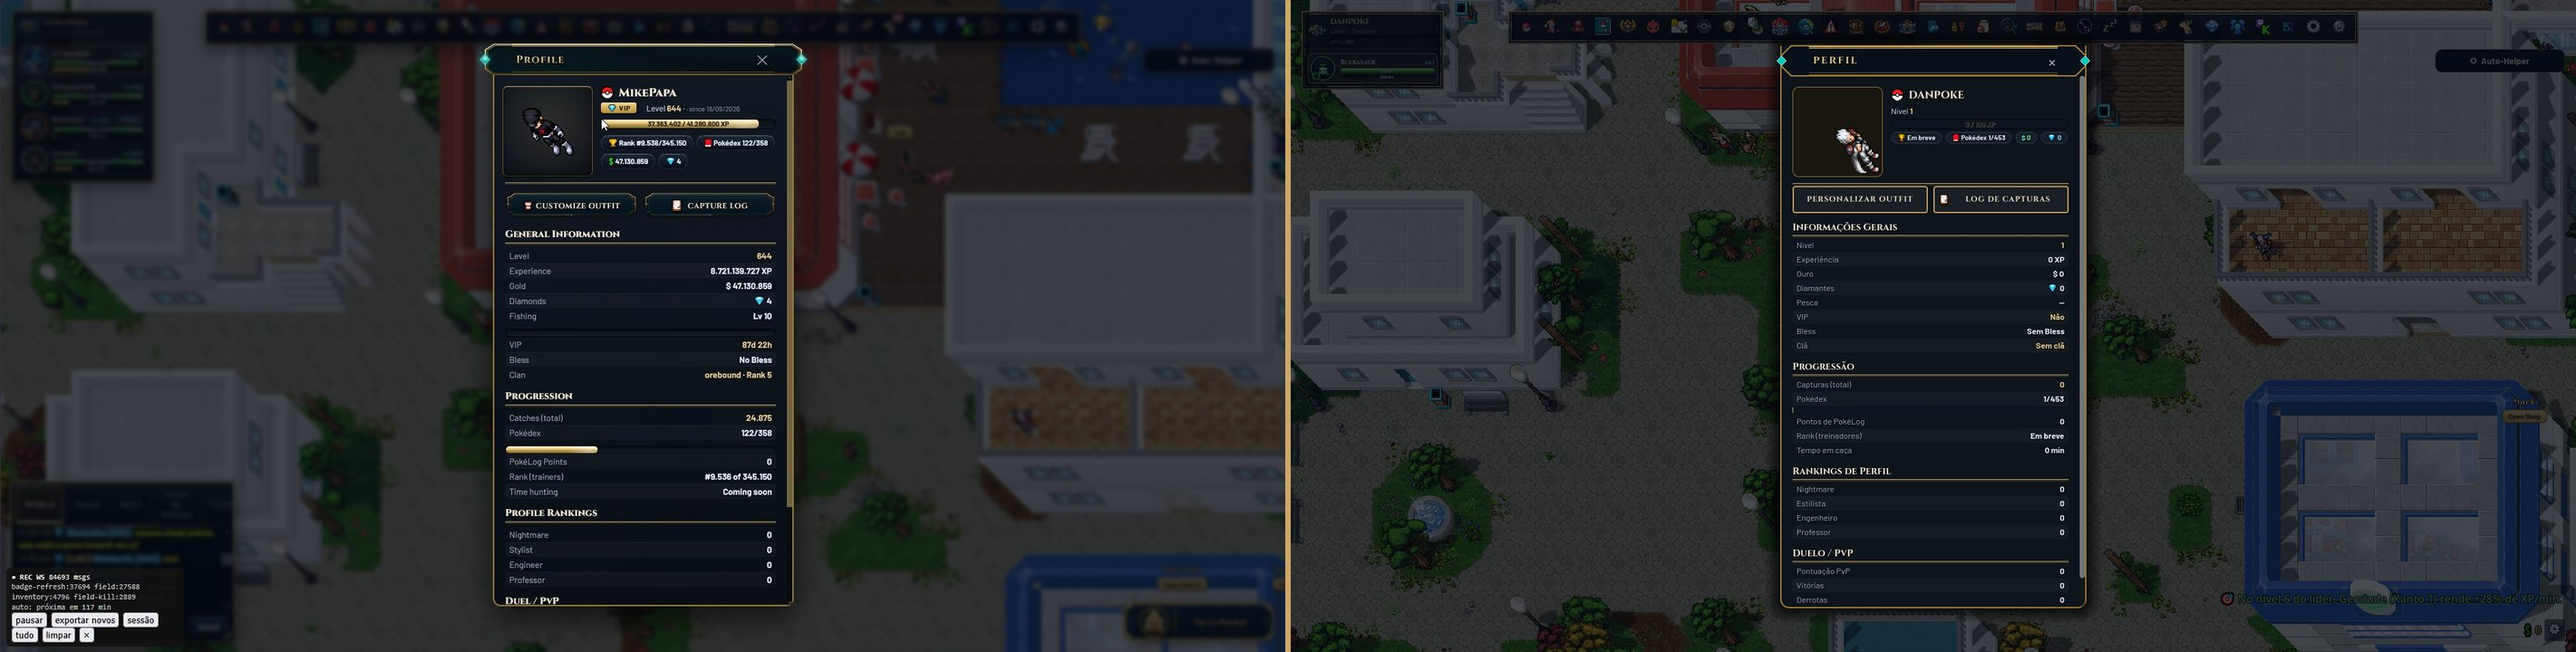
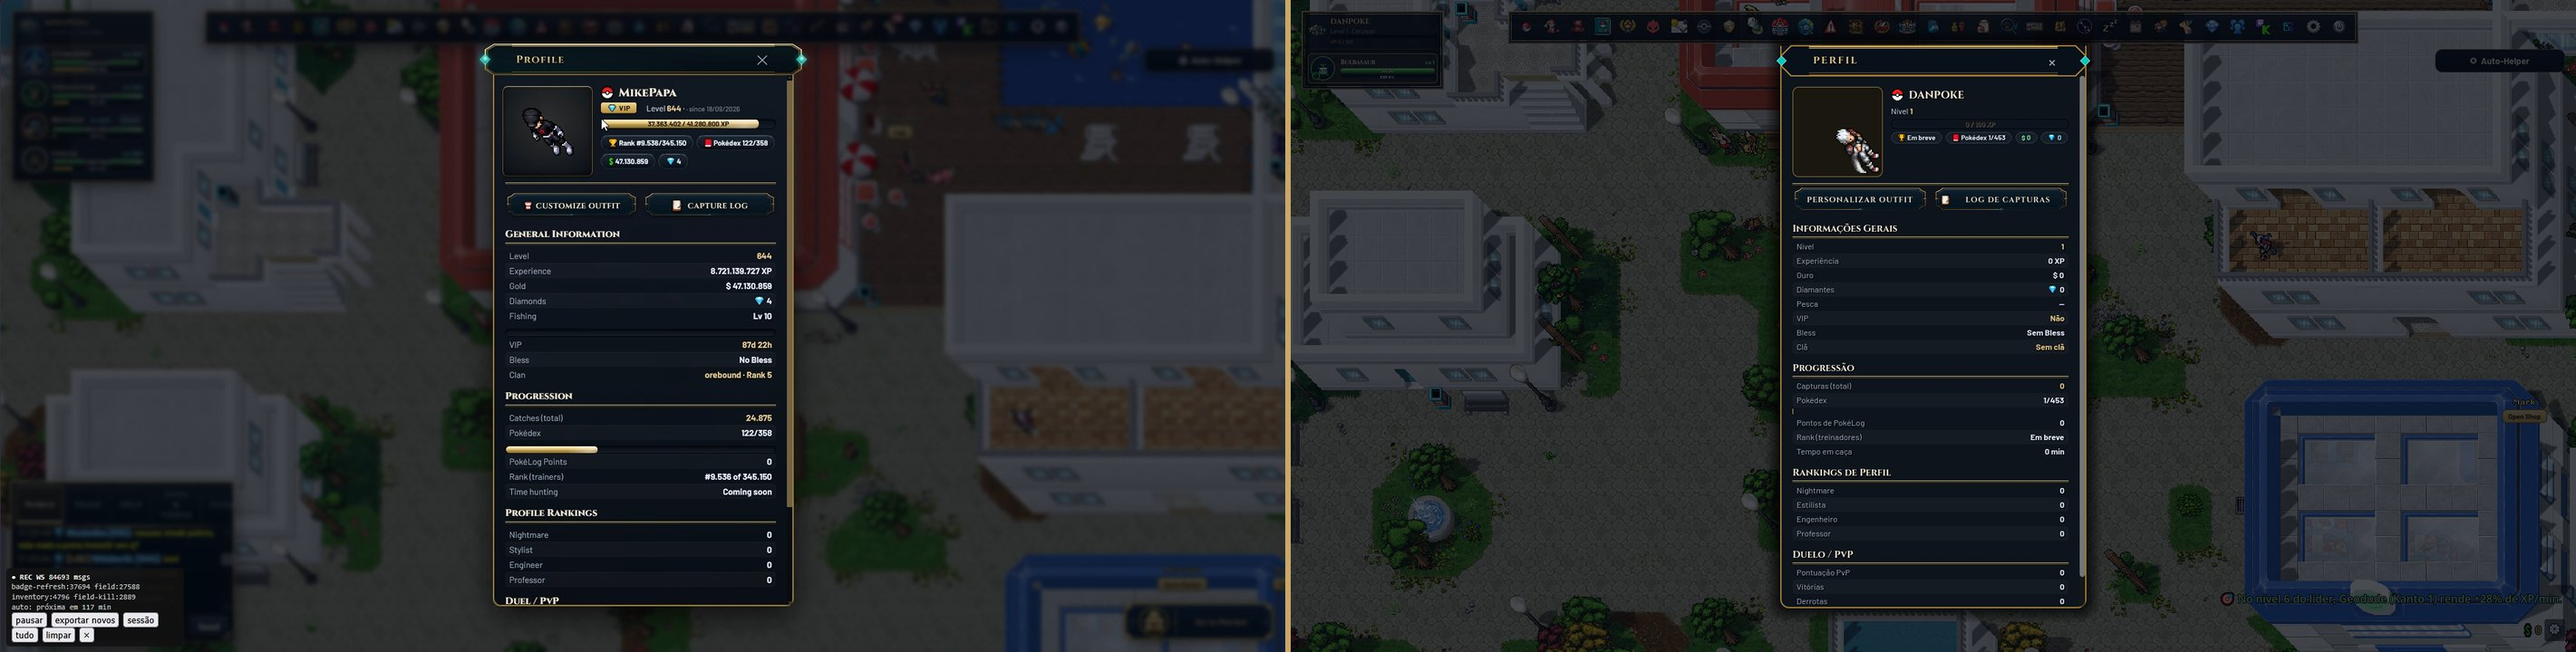
Assets do original: moldura lol-btn-frame nos botões do Perfil e as imagens de Outland, Orre e Nightmare no mapa-múndi (os 3 marcadores em y −158 numa margem acima da imagem); lado a lado 11 e 13

diff --git a/CLAUDE.md b/CLAUDE.md
@@ -1303,3 +1303,9 @@ com dados isolados (no Windows, um projeto/`user://` de teste separado; nunca o 
     - sim (regras 43/43, determinismo, caminho, alvo, grade 7/7, protocolo), ponte 11/11, save em thread 15/15,
       compatibilidade 24/24, segmentar 10/10, processar gravação 25/25, gravador 9/9;
     - P04 20/20; validador da classe 2 159/160 (igual).
+- 20/11/2026 — Assets do original baixados com a autorização do usuário: `/assets/evolution/lol-btn-frame.png` (o fundo
+  dos botões do Perfil, agora igual ao CSS) e `/assets/maps/{outland,orre,nightmare}.png` (as imagens das regiões no
+  mapa-múndi, em `assets/interface/mapa/regioes/`). Antes eram uma moldura dourada e um fundo liso (E).
+  - Os 3 marcadores da Nightmare em y = −158 (A) ficam numa margem acima da imagem, que desce junto com eles.
+  - `test_mapa_hunts` 4/4, `test_acesso_hunts` 13/13, P04 `test_mapa_fiel` 28/28 e `test_mapa_entre_hunts` 8/8,
+    `test_janelas_ciclo2` 26/26. Lado a lado: 11 (refeito) e 13.

diff --git a/dados/relatorios/visual_ciclo4/LEIA.md b/dados/relatorios/visual_ciclo4/LEIA.md
@@ -18,3 +18,4 @@ imagens são montadas por `ferramentas/visual/lado_a_lado.gd`.
 | 10_my_pokes | Equipe (My Pokes) | 11_time_my_pokes/v2_00028 |
 | 11_perfil | Perfil | 13_perfil_outfit/v2_00049 |
 | 12_dock_janela_original (só o nosso) | Item do dock que depende do servidor (Clãs) | — |
+| 13_mapa_nightmare (só o nosso) | Mapa da Nightmare com a imagem do original | — |
